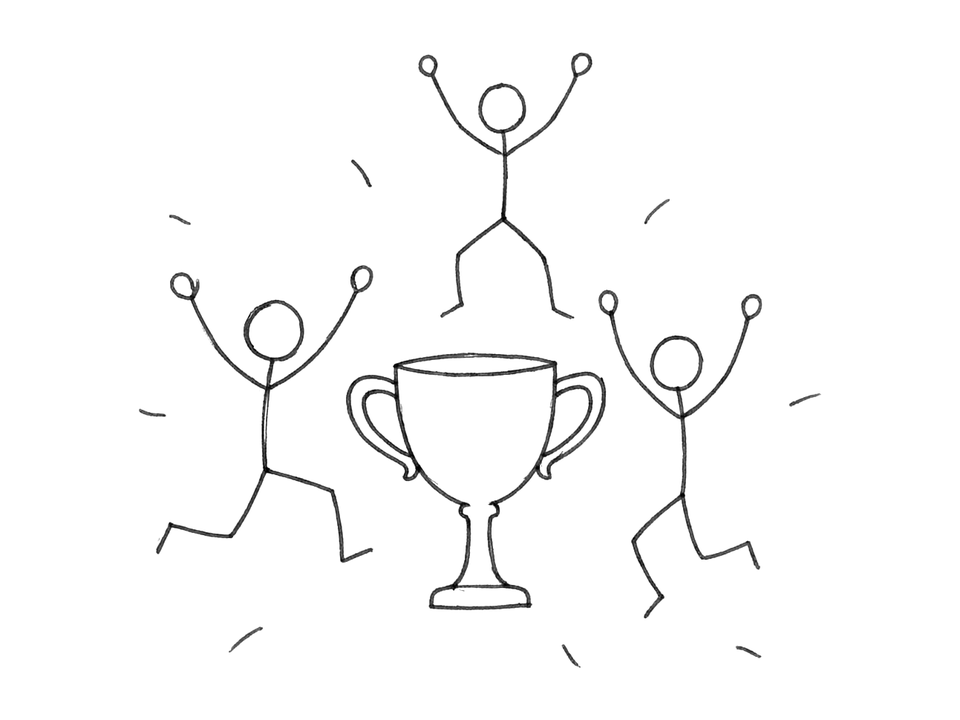
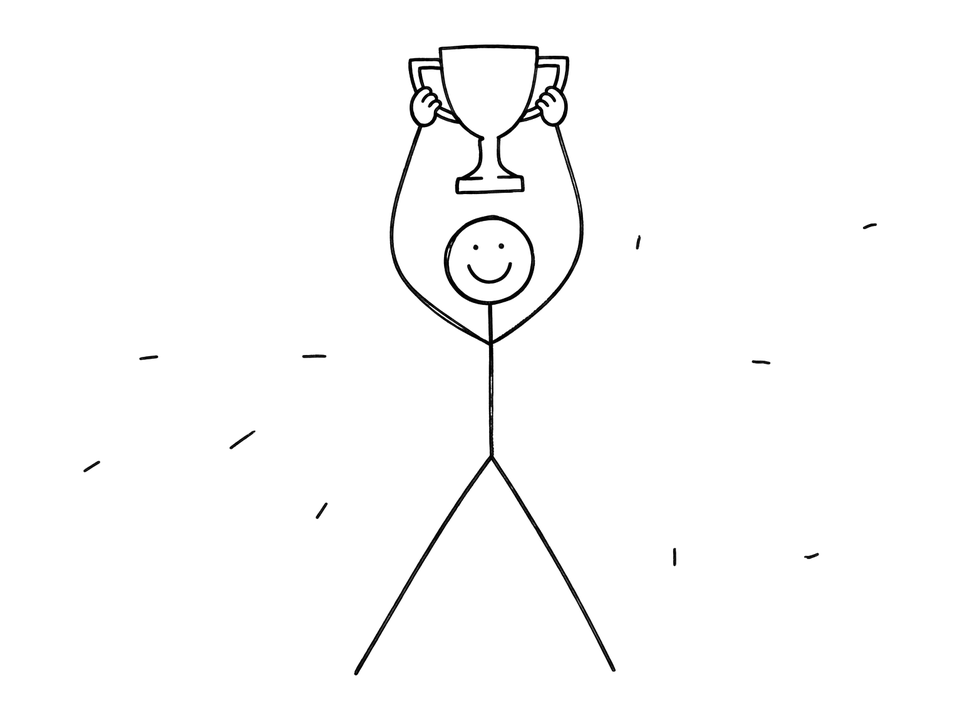
words: shorter work bullets, plainer open-source intro, newest-first wins, house style for project names

diff --git a/src/site.js b/src/site.js
@@ -6,7 +6,7 @@ export const SITE = {
   // Used for search results and link previews.
   description: 'Devanshi Jain, systems engineer at Meta working on inference performance for video recommendation models, and open-source contributor to PyTorch and vLLM.',
   // The line under the name on the home page. Plain HTML is fine.
-  oneLiner: 'Systems engineer at Meta working on inference performance for video recommendation models. I contribute to open source, mostly <a href="https://github.com/pytorch/ao">PyTorch</a> and <a href="https://github.com/vllm-project/vllm">vLLM</a>. B.S. in Mathematics and Computer Science from UC San Diego.',
+  oneLiner: 'Systems engineer at Meta working on inference performance for video recommendation models. I contribute to open source, mostly <a href="https://github.com/pytorch/ao">PyTorch</a> and <a href="https://github.com/vllm-project/vllm">vLLM</a>. B.S. in Mathematics and Computer Science from UC&nbsp;San&nbsp;Diego.',
   heroAlt: 'A small, smiling GPU card with legs sprints ahead carrying a compact neural network, leaving behind a line of GPU cards hauling a giant network on a cart.',
   links: [
     { label: 'GitHub', href: 'https://github.com/devanshi-code18' },
@@ -52,7 +52,7 @@ export const SITE = {
       img: '/images/ink/benchmarks.png',
       alt: 'A race where a runner’s shortcut through a box is crossed out and the honest runner is timed.',
       title: 'Benchmarks that measured the cache',
-      text: 'vLLM’s benchmark warmed up with the same prompt it then measured, so the first “real” request hit the cache and looked about 4× faster than it was. Warmups can’t hit the cache anymore, and requests that sample several outputs stop counting their siblings’ cache hits.',
+      text: 'vLLM’s benchmark warmed up with the same prompt it then measured, so the first “real” request hit the cache and looked about 4× faster than it was. Warmups now use different prompts, and requests that sample several outputs no longer count their siblings’ cache hits.',
       repo: 'vLLM',
       prs: [['#66701', 'https://github.com/vllm-project/vllm/pull/66701'], ['#66720', 'https://github.com/vllm-project/vllm/pull/66720']],
     },
@@ -79,10 +79,10 @@ export const SITE = {
     {
       org: 'Meta', role: 'Systems Engineer II', dates: 'Aug 2026 – now', img: '/images/work/meta-perf.png',
       alt: 'Videos ride a conveyor through a GPU faster once the waiting is removed.',
-      summary: 'Inference performance for Facebook’s video recommendation models.',
+      summary: 'Making video ranking models serve more requests per GPU.',
       points: [
         '23.4% more inference queries per second per GPU on a video ranking model (AMD MI300X, 80&nbsp;ms p99), by cutting host syncs 7× and fusing GEMMs.',
-        '$14.18M a year in GPU savings across video recommendation inference.',
+        '$14.18M a year in GPU savings.',
         'Caught a silent output bug that had passed 10+ load tests, and built a check that compares served outputs with the original model before publishing.',
       ],
     },
@@ -91,8 +91,8 @@ export const SITE = {
       alt: 'A robot repairs a locked door by itself while people walk through.',
       summary: 'LLM post-training data, then login reliability for Facebook and Instagram.',
       points: [
-        'Built 15+ LLM post-training tasks whose data shipped in Muse Spark 1.2.',
-        'Led the reliability work that cut “Can’t Log In” bug reports 55%, with an AI pipeline that patches regressions automatically.',
+        'Built 15+ post-training tasks whose data shipped in Muse Spark 1.2.',
+        'Cut “Can’t Log In” bug reports 55%, with an AI pipeline that patches regressions automatically.',
       ],
     },
     {
@@ -105,11 +105,11 @@ export const SITE = {
       org: 'Meta', role: 'Software Engineer Intern', dates: 'Jun – Sep 2024', img: '/images/work/meta-migration.png',
       alt: 'A line of people crosses a bridge from an old building to a new locked one.',
       summary: 'Login security.',
-      points: ['Moved 64M+ users from a deprecated database to a secure login system.'],
+      points: ['Moved 64M+ users off a deprecated database onto the new login system.'],
     },
-    { earlier: true, org: 'UC San Diego Center for Energy Research', role: 'Software Engineering Intern', dates: '2022 – 2024', note: '20% more energy-efficient scheduling across 9+ buildings' },
-    { earlier: true, org: 'UC San Diego Flow Physics Lab', role: 'Student Researcher', dates: '2023', note: '<a href="https://escholarship.org/uc/item/8rs4v3pq">Published in The Catalyst</a>' },
-    { earlier: true, org: 'UC San Diego, RoboSub', role: 'Embedded Systems Lead', dates: '2021 – 2023', note: 'Real-time C++ for a semifinalist autonomous submarine' },
+    { earlier: true, org: 'Center for Energy Research', role: 'Software Engineering Intern', dates: '2022 – 2024', note: '20% more energy‑efficient scheduling across 9+ buildings' },
+    { earlier: true, org: 'Flow Physics Lab', role: 'Student Researcher', dates: '2023', note: '<a href="https://escholarship.org/uc/item/8rs4v3pq">Published in The Catalyst</a>' },
+    { earlier: true, org: 'RoboSub', role: 'Embedded Systems Lead', dates: '2021 – 2023', note: 'Real-time C++ for a semifinalist autonomous submarine' },
   ],
 
   // Peer review and judging. Only roles that are confirmed.
@@ -117,16 +117,16 @@ export const SITE = {
     { venue: 'CPAL 2027', what: 'Conference on Parsimony and Learning, Proceedings Track (PMLR)', href: 'https://cpal.cc/' },
     { venue: 'AAAI 2027', what: 'Deployable AI (DAI) Workshop', href: 'https://dai-workshop.github.io/' },
     { venue: 'WWW 2027', what: 'LLM and Agents for Recommendation Systems (LARS) Workshop', href: 'https://www2027.thewebconf.org/workshops/#workshop-lars' },
-    { venue: 'WSDM 2027', what: 'AutoResearch for IR & RecSys Workshop, program committee', href: 'https://www.wsdm-conference.org/2027/accepted-workshops.html' },
+    { venue: 'WSDM 2027', what: 'AutoResearch for IR & RecSys Workshop', href: 'https://www.wsdm-conference.org/2027/accepted-workshops.html' },
   ],
   judge: [
-    { venue: 'Silicon Valley Innovation Challenge', what: 'San José State University, Nov – Dec 2026', href: 'https://www.sjsu.edu/svic/' },
+    { venue: 'Silicon Valley Innovation Challenge', what: 'San José State University, Nov–Dec 2026', href: 'https://www.sjsu.edu/svic/' },
     { venue: 'Cal Hacks 13.0', what: 'UC Berkeley, Oct 2026', href: 'https://www.calhacks.io/' },
     { venue: 'LA AI Hackathon', what: 'UCLA, Oct 2026', href: 'https://la-ai-hackathon-2026.devpost.com/' },
   ],
   wins: [
     { name: 'Meta Global Hackathon', what: 'Global Judges’ Choice Award, top 6 of 198 projects, spring 2026' },
-    { name: 'TreeHacks 2025', what: '2nd prize, Liquid AI track: ExecuTorch C++ on-device kernels and a memory-aware scheduler, Feb 2025', href: 'https://devpost.com/software/optimized-convolution-kernels-for-edge-ai' },
     { name: 'Base × Ohara Vibe Coding Buildathon', what: 'Prize winner, Coinbase HQ, Apr 2025' },
+    { name: 'TreeHacks 2025', what: '2nd prize, Liquid AI track: ExecuTorch C++ on-device kernels and a memory-aware scheduler, Feb 2025', href: 'https://devpost.com/software/optimized-convolution-kernels-for-edge-ai' },
   ],
 };

diff --git a/src/styles/global.css b/src/styles/global.css
@@ -89,6 +89,9 @@ body:has(.hero) .footer-links { display: none; }
 .hero { margin: 2.5rem 0 4.5rem; }
 .hero h1 { font-weight: 400; font-size: 4rem; line-height: 1; letter-spacing: .01em; text-transform: uppercase; margin: 0 0 2rem; }
 .hero-art { display: block; width: 100%; height: auto; margin: 0 0 2rem; }
+.ink-grid { position: relative; width: 100%; height: 17rem; margin: 0 0 2rem; touch-action: pan-y; cursor: crosshair; }
+.ink-grid canvas, .ink-grid img { position: absolute; inset: 0; width: 100%; height: 100%; display: block; }
+.ink-grid img { object-fit: contain; }
 .one-liner { max-width: 36rem; margin: 0; color: var(--muted); }
 .one-liner a, .oss-card a, .career a, .service a, .pr-list a, .links a { color: var(--text); }
 .links { display: flex; flex-wrap: wrap; gap: 0 1.25rem; margin: 1.25rem 0 0; font-size: .95rem; }
@@ -292,6 +295,7 @@ a:hover { color: var(--text); text-decoration-color: currentColor; }
   .role img { max-width: 16rem; }
   .earlier li { grid-template-columns: 1fr; }
   .hero-art { margin: 0 0 1.5rem; }
+  .ink-grid { height: 12rem; margin: 0 0 1.5rem; }
   .career .when { margin: 0 0 .2rem; }
   .pr-list a { grid-template-columns: 1fr; }
   .pr-list time { display: none; }

diff --git a/src/lib/oss.js b/src/lib/oss.js
@@ -21,8 +21,9 @@ const FALLBACK = [
 export function cleanTitle(t) {
   const s = t.replace(/^(\s*\[[^\]]*\]\s*)+/, '').replace(/^[a-z]+\([^)]*\):\s*/, '').trim();
   // Keep a leading lowercase name like "torchao:" as it is.
-  if (/^[a-z0-9_.-]+:/.test(s)) return s;
-  return s.charAt(0).toUpperCase() + s.slice(1);
+  const out = /^[a-z0-9_.-]+:/.test(s) ? s : s.charAt(0).toUpperCase() + s.slice(1);
+  // House style: the project is "torchao", and ranges use an en dash.
+  return out.replace(/\bTorchAO\b/g, 'torchao').replace(/(\d)-(\d)/g, '$1–$2');
 }
 
 export const repoName = (repo) => NAMES[repo] || repo.split('/')[1];
